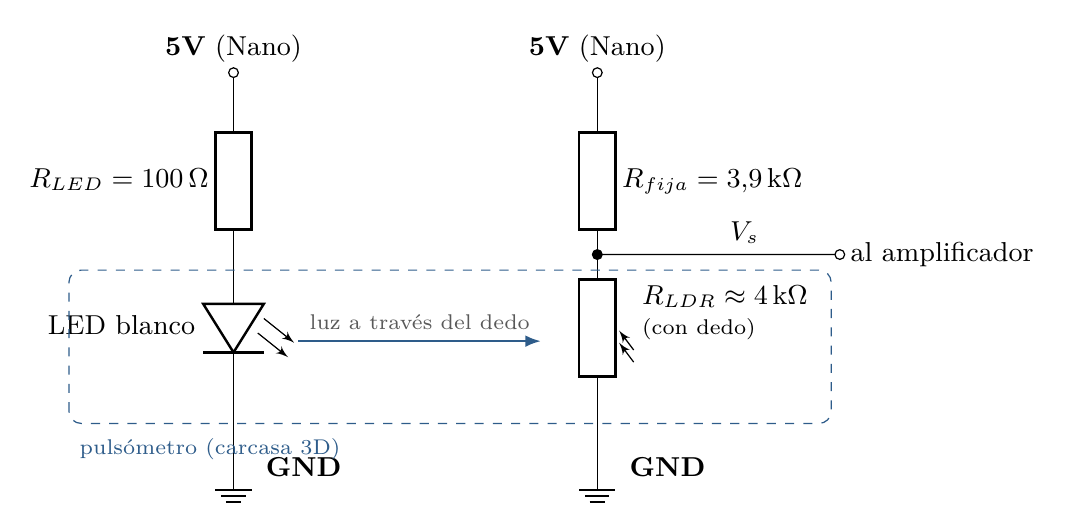
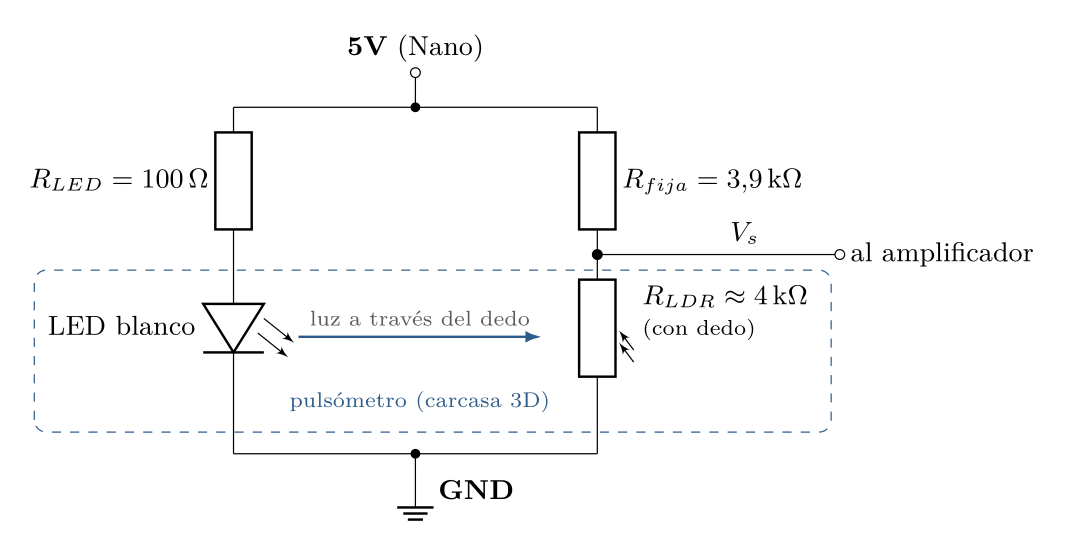
Esquema del sensor: LED y divisor con 5 V y GND comunes; recuadro sin tapar etiquetas

diff --git a/docs/circuitos/sensor.tex b/docs/circuitos/sensor.tex
@@ -12,23 +12,23 @@
 \definecolor{graytext}{HTML}{595959}
 \begin{document}
 \begin{circuitikz}[font=\small]
+  % ---------- Alimentación común ----------
+  \draw (2.1,5.0) node[above]{\textbf{5V} (Nano)} node[ocirc]{} -- (2.1,4.6);
+  \draw (0,4.6) -- (4.2,4.6);  \fill (2.1,4.6) circle (1.6pt);
+  \draw (0,0.6) -- (4.2,0.6);  \fill (2.1,0.6) circle (1.6pt);
+  \draw (2.1,0.6) -- (2.1,0.4) node[ground]{} node[right=4pt, yshift=-6pt]{\textbf{GND}};
   % ---------- Rama del LED ----------
-  \draw (0,5) node[above]{\textbf{5V} (Nano)} node[ocirc]{} -- (0,4.6)
-        to[R, l_={$R_{LED} = \qty{100}{\ohm}$}] (0,2.9)
-        to[empty led, l_={LED blanco}] (0,1.2)
-        -- (0,0.6) node[ground]{};
-  \node[right] at (0.25,0.45) {\textbf{GND}};
+  \draw (0,4.6) to[R, l_={$R_{LED} = \qty{100}{\ohm}$}] (0,2.9)
+        to[empty led, l_={LED blanco}] (0,1.2) -- (0,0.6);
   % ---------- Divisor con la LDR ----------
-  \draw (4.2,5) node[above]{\textbf{5V} (Nano)} node[ocirc]{} -- (4.2,4.6)
-        to[R, l={$R_{fija} = \qty{3.9}{\kilo\ohm}$}] (4.2,2.9) coordinate(vs)
+  \draw (4.2,4.6) to[R, l={$R_{fija} = \qty{3.9}{\kilo\ohm}$}] (4.2,2.9) coordinate(vs)
         to[phR, l={$R_{LDR} \approx \qty{4}{\kilo\ohm}$\\[-1pt]\scriptsize(con dedo)}, align=left] (4.2,1.2)
-        -- (4.2,0.6) node[ground]{};
-  \node[right] at (4.45,0.45) {\textbf{GND}};
+        -- (4.2,0.6);
   \draw (vs) to[short, *-o] (7.0,2.9) node[right]{al amplificador};
   \node[above, font=\small] at (5.9,2.9) {$V_s$};
   % ---------- Sensor ----------
-  \draw[accent, dashed, rounded corners] (-1.9,0.95) rectangle (6.9,2.72);
-  \node[accent, font=\scriptsize, anchor=north west] at (-1.9,0.9) {pulsómetro (carcasa 3D)};
-  \draw[accent, -{Latex[length=1.8mm]}, thick] (0.75,1.9) -- node[above, font=\scriptsize, text=graytext]{luz a través del dedo} (3.55,1.9);
+  \draw[accent, dashed, rounded corners] (-2.3,0.85) rectangle (6.9,2.72);
+  \draw[accent, -{Latex[length=1.8mm]}, thick] (0.75,1.95) -- node[above, font=\scriptsize, text=graytext]{luz a través del dedo} (3.55,1.95);
+  \node[accent, font=\scriptsize] at (2.15,1.2) {pulsómetro (carcasa 3D)};
 \end{circuitikz}
 \end{document}
